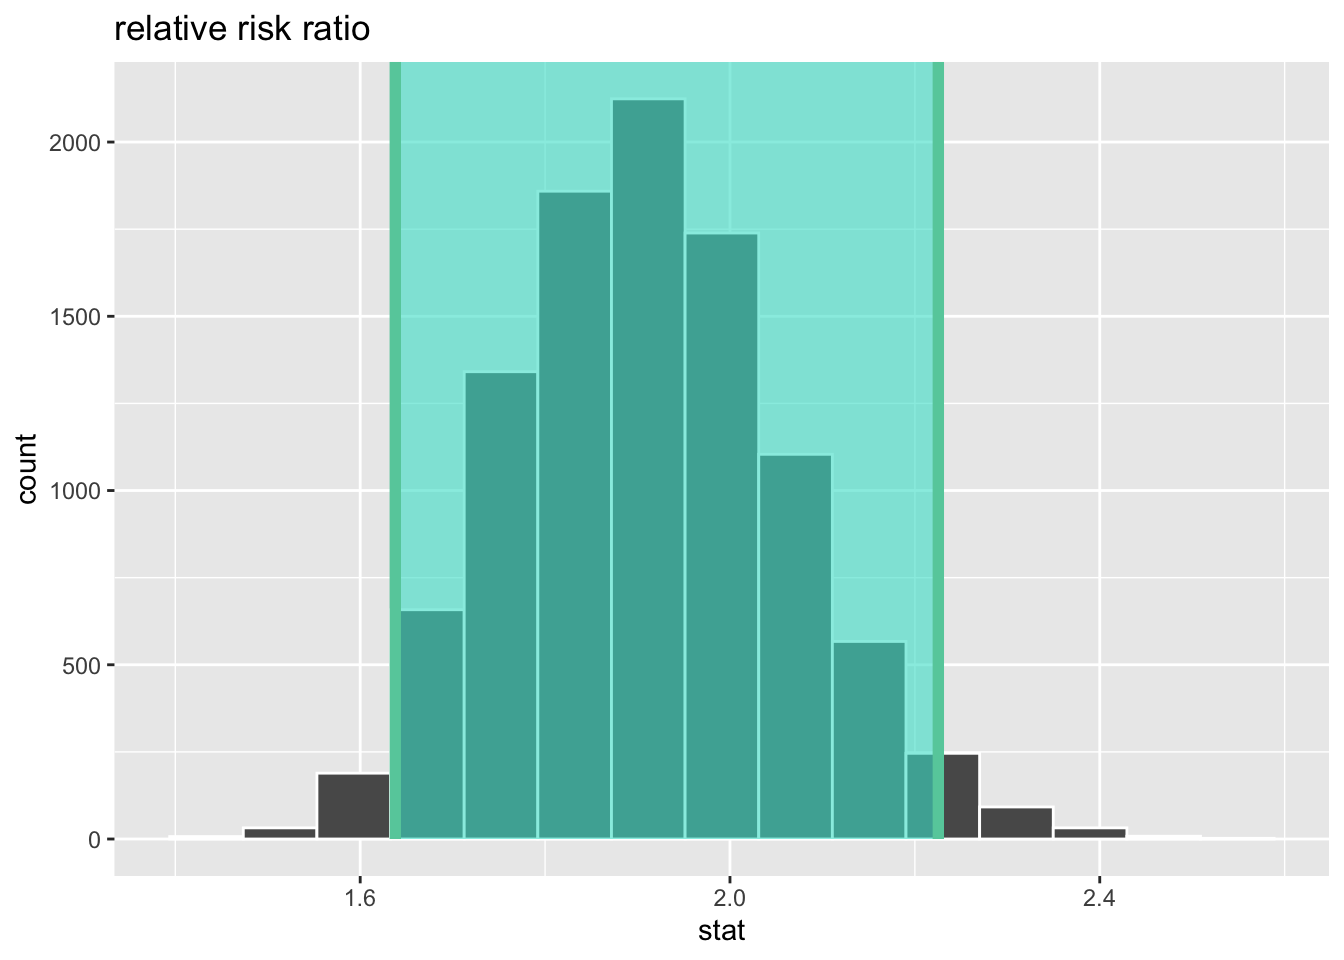
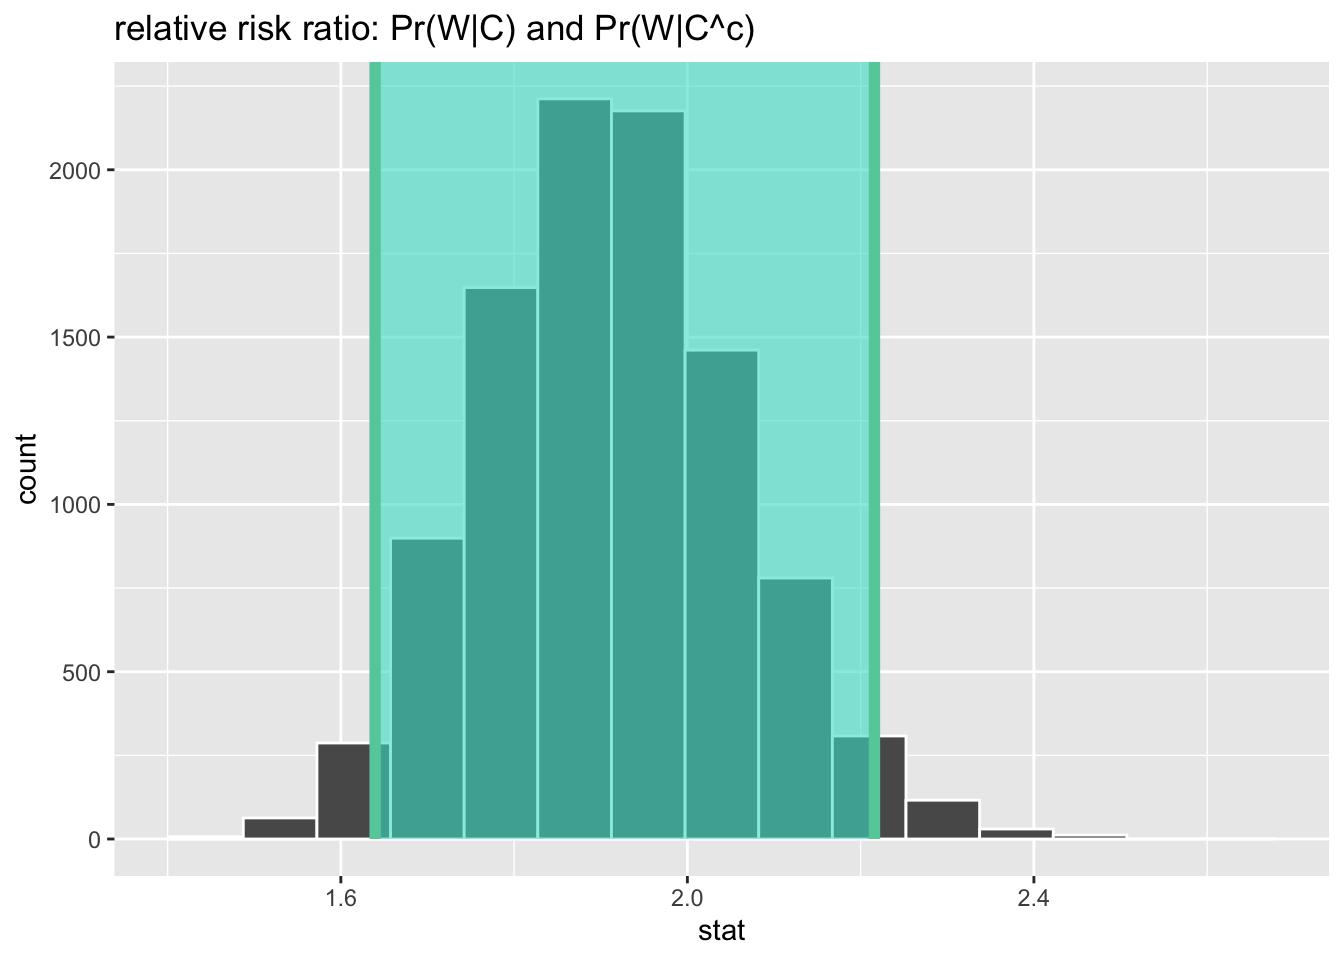
Updated week 7 exercises

diff --git a/Week 7 Exercises/Exercise_07.html b/Week 7 Exercises/Exercise_07.html
@@ -220,7 +220,7 @@ pre > code.sourceCode > span > a:first-child::before { text-decoration: underlin
 </section>
 <section id="section-1" class="level2">
 <h2 class="anchored" data-anchor-id="section-1">7.1.2</h2>
-<p>Selecting new variables: marital status and whether or not respondent has children</p>
+<p>Selecting new variables: marital status (M) and whether or not respondent has kids (K)</p>
 <div class="cell">
 <div class="sourceCode cell-code" id="cb19"><pre class="sourceCode r code-with-copy"><code class="sourceCode r"><span id="cb19-1"><a href="#cb19-1" aria-hidden="true" tabindex="-1"></a>d2 <span class="ot">&lt;-</span> gss18 <span class="sc">|&gt;</span> </span>
 <span id="cb19-2"><a href="#cb19-2" aria-hidden="true" tabindex="-1"></a>  <span class="fu">select</span>(marital, childs) <span class="sc">|&gt;</span> </span>
@@ -243,7 +243,7 @@ pre > code.sourceCode > span > a:first-child::before { text-decoration: underlin
 </div>
 </div>
 <ol type="1">
-<li>Probability that someone is married</li>
+<li>Probability that someone is married: Pr(M)</li>
 </ol>
 <div class="cell">
 <div class="sourceCode cell-code" id="cb22"><pre class="sourceCode r code-with-copy"><code class="sourceCode r"><span id="cb22-1"><a href="#cb22-1" aria-hidden="true" tabindex="-1"></a><span class="fu">tabyl</span>(d2, mar_status_chr)</span></code><button title="Copy to Clipboard" class="code-copy-button"><i class="bi"></i></button></pre></div>
@@ -260,7 +260,7 @@ pre > code.sourceCode > span > a:first-child::before { text-decoration: underlin
 </div>
 <p>Pr(M) = <strong>42.51%</strong></p>
 <ol start="2" type="1">
-<li>Probability that someone is NOT married</li>
+<li>Probability that someone is NOT married: Pr(M<sup>c</sup>)</li>
 </ol>
 <div class="cell">
 <div class="sourceCode cell-code" id="cb26"><pre class="sourceCode r code-with-copy"><code class="sourceCode r"><span id="cb26-1"><a href="#cb26-1" aria-hidden="true" tabindex="-1"></a><span class="dv">100</span><span class="sc">-</span>prob_married</span></code><button title="Copy to Clipboard" class="code-copy-button"><i class="bi"></i></button></pre></div>
@@ -270,7 +270,7 @@ pre > code.sourceCode > span > a:first-child::before { text-decoration: underlin
 </div>
 <p>Pr(M<sup>c</sup>) = <strong>57.49%</strong></p>
 <ol start="3" type="1">
-<li>Probability that someone has children given that they are married</li>
+<li>Probability that someone has children given that they are married: Pr(K | M)</li>
 </ol>
 <div class="cell">
 <div class="sourceCode cell-code" id="cb28"><pre class="sourceCode r code-with-copy"><code class="sourceCode r"><span id="cb28-1"><a href="#cb28-1" aria-hidden="true" tabindex="-1"></a><span class="fu">tabyl</span>(d2, mar_status_chr, has_children_chr) <span class="sc">|&gt;</span> </span>
@@ -282,9 +282,9 @@ pre > code.sourceCode > span > a:first-child::before { text-decoration: underlin
     Not Married   61.54%  38.46%</code></pre>
 </div>
 </div>
-<p>Pr(C | M) = <strong>85.44%</strong></p>
+<p>Pr(K | M) = <strong>85.44%</strong></p>
 <ol start="4" type="1">
-<li>Probability that someone is married given that they have kids</li>
+<li>Probability that someone is married given that they have kids: Pr(M | K)</li>
 </ol>
 <div class="cell">
 <div class="sourceCode cell-code" id="cb30"><pre class="sourceCode r code-with-copy"><code class="sourceCode r"><span id="cb30-1"><a href="#cb30-1" aria-hidden="true" tabindex="-1"></a><span class="fu">tabyl</span>(d2, mar_status_chr, has_children_chr) <span class="sc">|&gt;</span> </span>
@@ -296,9 +296,9 @@ pre > code.sourceCode > span > a:first-child::before { text-decoration: underlin
     Not Married   49.35%  78.13%</code></pre>
 </div>
 </div>
-<p>Pr(M | C) = <strong>50.65%</strong></p>
+<p>Pr(M | K) = <strong>50.65%</strong></p>
 <ol start="5" type="1">
-<li>Probability that someone has kids given that they are NOT married</li>
+<li>Probability that someone has kids given that they are NOT married: Pr(K | M<sup>c</sup>)</li>
 </ol>
 <div class="cell">
 <div class="sourceCode cell-code" id="cb32"><pre class="sourceCode r code-with-copy"><code class="sourceCode r"><span id="cb32-1"><a href="#cb32-1" aria-hidden="true" tabindex="-1"></a><span class="fu">tabyl</span>(d2, mar_status_chr, has_children_chr) <span class="sc">|&gt;</span> </span>
@@ -310,9 +310,9 @@ pre > code.sourceCode > span > a:first-child::before { text-decoration: underlin
     Not Married   61.54%  38.46%</code></pre>
 </div>
 </div>
-<p>Pr(C | M<sup>c</sup>) = <strong>61.54%</strong></p>
+<p>Pr(K | M<sup>c</sup>) = <strong>61.54%</strong></p>
 <ol start="6" type="1">
-<li>Probability that someone is married and has kids</li>
+<li>Probability that someone is married and has kids: Pr(M and K)</li>
 </ol>
 <div class="cell">
 <div class="sourceCode cell-code" id="cb34"><pre class="sourceCode r code-with-copy"><code class="sourceCode r"><span id="cb34-1"><a href="#cb34-1" aria-hidden="true" tabindex="-1"></a><span class="fu">tabyl</span>(d2, mar_status_chr, has_children_chr) <span class="sc">|&gt;</span> </span>
@@ -324,9 +324,9 @@ pre > code.sourceCode > span > a:first-child::before { text-decoration: underlin
     Not Married   35.38%  22.11%</code></pre>
 </div>
 </div>
-<p>Pr(M and C) = <strong>36.32%</strong></p>
+<p>Pr(M and K) = <strong>36.32%</strong></p>
 <ol start="7" type="1">
-<li>Probability that someone is NOT married and does NOT have kids</li>
+<li>Probability that someone is NOT married and does NOT have kids: Pr(M<sup>c</sup> and K<sup>c</sup>)</li>
 </ol>
 <div class="cell">
 <div class="sourceCode cell-code" id="cb36"><pre class="sourceCode r code-with-copy"><code class="sourceCode r"><span id="cb36-1"><a href="#cb36-1" aria-hidden="true" tabindex="-1"></a><span class="fu">tabyl</span>(d2, mar_status_chr, has_children_chr) <span class="sc">|&gt;</span> </span>
@@ -338,9 +338,9 @@ pre > code.sourceCode > span > a:first-child::before { text-decoration: underlin
     Not Married   61.54%  38.46%</code></pre>
 </div>
 </div>
-<p>Pr(M<sup>c</sup> and C<sup>c</sup>) = <strong>38.46%</strong></p>
+<p>Pr(M<sup>c</sup> and K<sup>c</sup>) = <strong>38.46%</strong></p>
 <ol start="8" type="1">
-<li>If M and C are independent, what would be the joint probability of M and C?</li>
+<li>If M and K are independent, what would be the joint probability of M and K?</li>
 </ol>
 <div class="cell">
 <div class="sourceCode cell-code" id="cb38"><pre class="sourceCode r code-with-copy"><code class="sourceCode r"><span id="cb38-1"><a href="#cb38-1" aria-hidden="true" tabindex="-1"></a>chisq<span class="ot">&lt;-</span><span class="fu">tabyl</span>(d2, mar_status_chr, has_children_chr) <span class="sc">|&gt;</span> </span>
@@ -353,7 +353,7 @@ pre > code.sourceCode > span > a:first-child::before { text-decoration: underlin
     Not Married 0.4122231 0.1626809</code></pre>
 </div>
 </div>
-<p>The joint probability of M and C would be <strong>30.48%</strong></p>
+<p>The joint probability of M and K would be <strong>30.48%</strong></p>
 </section>
 <section id="section-2" class="level2">
 <h2 class="anchored" data-anchor-id="section-2">7.2.1</h2>
@@ -426,7 +426,7 @@ pre > code.sourceCode > span > a:first-child::before { text-decoration: underlin
 <section id="section-3" class="level2">
 <h2 class="anchored" data-anchor-id="section-3">7.2.2</h2>
 <ol type="1">
-<li>Draw a sampling distribution for the relative risk ratio.</li>
+<li>Draw a sampling distribution for the relative risk ratio between Pr(W|C) and Pr(W|C<sup>c</sup>).</li>
 </ol>
 <div class="cell">
 <div class="sourceCode cell-code" id="cb52"><pre class="sourceCode r code-with-copy"><code class="sourceCode r"><span id="cb52-1"><a href="#cb52-1" aria-hidden="true" tabindex="-1"></a>d <span class="ot">&lt;-</span> gss18 <span class="sc">|&gt;</span> </span>
@@ -454,13 +454,13 @@ pre > code.sourceCode > span > a:first-child::before { text-decoration: underlin
 <div class="sourceCode cell-code" id="cb54"><pre class="sourceCode r code-with-copy"><code class="sourceCode r"><span id="cb54-1"><a href="#cb54-1" aria-hidden="true" tabindex="-1"></a>boot_rr <span class="sc">|&gt;</span> </span>
 <span id="cb54-2"><a href="#cb54-2" aria-hidden="true" tabindex="-1"></a>  <span class="fu">visualize</span>() <span class="sc">+</span></span>
 <span id="cb54-3"><a href="#cb54-3" aria-hidden="true" tabindex="-1"></a>  <span class="fu">shade_ci</span>(ci_rr)<span class="sc">+</span></span>
-<span id="cb54-4"><a href="#cb54-4" aria-hidden="true" tabindex="-1"></a>  <span class="fu">ggtitle</span>(<span class="st">"relative risk ratio"</span>)</span></code><button title="Copy to Clipboard" class="code-copy-button"><i class="bi"></i></button></pre></div>
+<span id="cb54-4"><a href="#cb54-4" aria-hidden="true" tabindex="-1"></a>  <span class="fu">ggtitle</span>(<span class="st">"relative risk ratio: Pr(W|C) and Pr(W|C^c)"</span>)</span></code><button title="Copy to Clipboard" class="code-copy-button"><i class="bi"></i></button></pre></div>
 <div class="cell-output-display">
 <p><img src="Exercise_07_files/figure-html/unnamed-chunk-24-1.png" class="img-fluid" width="672"></p>
 </div>
 </div>
 <ol start="2" type="1">
-<li>Draw a sampling distribution for the odds ratio</li>
+<li>Draw a sampling distribution for the odds ratio between Pr(W|C) and Pr(W|C<sup>c</sup>).</li>
 </ol>
 <div class="cell">
 <div class="sourceCode cell-code" id="cb55"><pre class="sourceCode r code-with-copy"><code class="sourceCode r"><span id="cb55-1"><a href="#cb55-1" aria-hidden="true" tabindex="-1"></a>boot_or <span class="ot">&lt;-</span> d <span class="sc">|&gt;</span> </span>
@@ -477,9 +477,122 @@ pre > code.sourceCode > span > a:first-child::before { text-decoration: underlin
 <div class="sourceCode cell-code" id="cb57"><pre class="sourceCode r code-with-copy"><code class="sourceCode r"><span id="cb57-1"><a href="#cb57-1" aria-hidden="true" tabindex="-1"></a>boot_or <span class="sc">|&gt;</span> </span>
 <span id="cb57-2"><a href="#cb57-2" aria-hidden="true" tabindex="-1"></a>  <span class="fu">visualize</span>() <span class="sc">+</span></span>
 <span id="cb57-3"><a href="#cb57-3" aria-hidden="true" tabindex="-1"></a>  <span class="fu">shade_ci</span>(ci_or)<span class="sc">+</span></span>
-<span id="cb57-4"><a href="#cb57-4" aria-hidden="true" tabindex="-1"></a>  <span class="fu">ggtitle</span>(<span class="st">"odds ratio"</span>)</span></code><button title="Copy to Clipboard" class="code-copy-button"><i class="bi"></i></button></pre></div>
+<span id="cb57-4"><a href="#cb57-4" aria-hidden="true" tabindex="-1"></a>  <span class="fu">ggtitle</span>(<span class="st">"odds ratio: Pr(W|C) and Pr(W|C^c)"</span>)</span></code><button title="Copy to Clipboard" class="code-copy-button"><i class="bi"></i></button></pre></div>
 <div class="cell-output-display">
 <p><img src="Exercise_07_files/figure-html/unnamed-chunk-25-1.png" class="img-fluid" width="672"></p>
+</div>
+</div>
+</section>
+<section id="section-4" class="level2">
+<h2 class="anchored" data-anchor-id="section-4">7.2.3</h2>
+<p>Compare Pr(M|K) and Pr(M|K<sup>c</sup>) using the following summary statistics:</p>
+<ol type="1">
+<li>Difference in Probabilities</li>
+</ol>
+<div class="cell">
+<div class="sourceCode cell-code" id="cb58"><pre class="sourceCode r code-with-copy"><code class="sourceCode r"><span id="cb58-1"><a href="#cb58-1" aria-hidden="true" tabindex="-1"></a><span class="fu">tabyl</span>(d2, mar_status_chr, has_children_chr) <span class="sc">|&gt;</span></span>
+<span id="cb58-2"><a href="#cb58-2" aria-hidden="true" tabindex="-1"></a>  <span class="fu">adorn_percentages</span>(<span class="at">denominator =</span> <span class="st">"col"</span>) <span class="sc">|&gt;</span></span>
+<span id="cb58-3"><a href="#cb58-3" aria-hidden="true" tabindex="-1"></a>  <span class="fu">adorn_pct_formatting</span>(<span class="at">digits =</span> <span class="dv">2</span>)</span></code><button title="Copy to Clipboard" class="code-copy-button"><i class="bi"></i></button></pre></div>
+<div class="cell-output cell-output-stdout">
+<pre><code> mar_status_chr Has kids No kids
+        Married   50.65%  21.87%
+    Not Married   49.35%  78.13%</code></pre>
+</div>
+<div class="sourceCode cell-code" id="cb60"><pre class="sourceCode r code-with-copy"><code class="sourceCode r"><span id="cb60-1"><a href="#cb60-1" aria-hidden="true" tabindex="-1"></a>prob_married_given_kids<span class="ot">&lt;-</span>.<span class="dv">5065</span></span>
+<span id="cb60-2"><a href="#cb60-2" aria-hidden="true" tabindex="-1"></a>prob_married_given_no_kids<span class="ot">&lt;-</span>.<span class="dv">2187</span></span>
+<span id="cb60-3"><a href="#cb60-3" aria-hidden="true" tabindex="-1"></a></span>
+<span id="cb60-4"><a href="#cb60-4" aria-hidden="true" tabindex="-1"></a>prob_married_given_kids<span class="sc">-</span>prob_married_given_no_kids</span></code><button title="Copy to Clipboard" class="code-copy-button"><i class="bi"></i></button></pre></div>
+<div class="cell-output cell-output-stdout">
+<pre><code>[1] 0.2878</code></pre>
+</div>
+</div>
+<p>There is a <strong>28.78% point difference in probabilities</strong> between the two groups: probability of being married among those who have kids and probability of being married among those who do NOT have kids.</p>
+<ol start="2" type="1">
+<li>Relative risk ratio</li>
+</ol>
+<div class="cell">
+<div class="sourceCode cell-code" id="cb62"><pre class="sourceCode r code-with-copy"><code class="sourceCode r"><span id="cb62-1"><a href="#cb62-1" aria-hidden="true" tabindex="-1"></a>prob_married_given_kids<span class="sc">/</span>prob_married_given_no_kids</span></code><button title="Copy to Clipboard" class="code-copy-button"><i class="bi"></i></button></pre></div>
+<div class="cell-output cell-output-stdout">
+<pre><code>[1] 2.315958</code></pre>
+</div>
+</div>
+<p>People who have kids have a probability of being married about <strong>2.32X greater</strong> than those who do not have kids.</p>
+<ol start="3" type="1">
+<li>Odds ratio</li>
+</ol>
+<div class="cell">
+<div class="sourceCode cell-code" id="cb64"><pre class="sourceCode r code-with-copy"><code class="sourceCode r"><span id="cb64-1"><a href="#cb64-1" aria-hidden="true" tabindex="-1"></a><span class="fu">tabyl</span>(d2, mar_status_chr, has_children_chr)</span></code><button title="Copy to Clipboard" class="code-copy-button"><i class="bi"></i></button></pre></div>
+<div class="cell-output cell-output-stdout">
+<pre><code> mar_status_chr Has kids No kids
+        Married      851     145
+    Not Married      829     518</code></pre>
+</div>
+<div class="sourceCode cell-code" id="cb66"><pre class="sourceCode r code-with-copy"><code class="sourceCode r"><span id="cb66-1"><a href="#cb66-1" aria-hidden="true" tabindex="-1"></a><span class="co"># odds that person who has kids is married</span></span>
+<span id="cb66-2"><a href="#cb66-2" aria-hidden="true" tabindex="-1"></a>odds_married_yes_kids<span class="ot">&lt;-</span><span class="dv">851</span><span class="sc">/</span><span class="dv">829</span></span>
+<span id="cb66-3"><a href="#cb66-3" aria-hidden="true" tabindex="-1"></a></span>
+<span id="cb66-4"><a href="#cb66-4" aria-hidden="true" tabindex="-1"></a><span class="co"># odds that a person who does NOT have kids is married</span></span>
+<span id="cb66-5"><a href="#cb66-5" aria-hidden="true" tabindex="-1"></a>odds_married_no_kids<span class="ot">&lt;-</span><span class="dv">145</span><span class="sc">/</span><span class="dv">518</span></span>
+<span id="cb66-6"><a href="#cb66-6" aria-hidden="true" tabindex="-1"></a></span>
+<span id="cb66-7"><a href="#cb66-7" aria-hidden="true" tabindex="-1"></a>odds_ratio_married_kids<span class="ot">&lt;-</span>odds_married_yes_kids<span class="sc">/</span>odds_married_no_kids</span>
+<span id="cb66-8"><a href="#cb66-8" aria-hidden="true" tabindex="-1"></a>odds_ratio_married_kids</span></code><button title="Copy to Clipboard" class="code-copy-button"><i class="bi"></i></button></pre></div>
+<div class="cell-output cell-output-stdout">
+<pre><code>[1] 3.667219</code></pre>
+</div>
+</div>
+<p>Respondents with kids’ odds of being married is about <strong>3.67X greater</strong> than those who do not have kids.</p>
+<ol start="4" type="1">
+<li>Log odds ratio</li>
+</ol>
+<div class="cell">
+<div class="sourceCode cell-code" id="cb68"><pre class="sourceCode r code-with-copy"><code class="sourceCode r"><span id="cb68-1"><a href="#cb68-1" aria-hidden="true" tabindex="-1"></a><span class="fu">log</span>(odds_ratio_married_kids)</span></code><button title="Copy to Clipboard" class="code-copy-button"><i class="bi"></i></button></pre></div>
+<div class="cell-output cell-output-stdout">
+<pre><code>[1] 1.299433</code></pre>
+</div>
+</div>
+<p>When compared to respondents without kids, the log-odds ratio of respondents with kids being married is <strong>about 1.30.</strong></p>
+</section>
+<section id="section-5" class="level2">
+<h2 class="anchored" data-anchor-id="section-5">7.2.4</h2>
+<ol type="1">
+<li>Draw a sampling distribution for the relative risk ratio between Pr(M|K) and Pr(M|K<sup>c</sup>).</li>
+</ol>
+<div class="cell">
+<div class="sourceCode cell-code" id="cb70"><pre class="sourceCode r code-with-copy"><code class="sourceCode r"><span id="cb70-1"><a href="#cb70-1" aria-hidden="true" tabindex="-1"></a>boot_rr_d2 <span class="ot">&lt;-</span> d2 <span class="sc">|&gt;</span> </span>
+<span id="cb70-2"><a href="#cb70-2" aria-hidden="true" tabindex="-1"></a>  <span class="fu">specify</span>(mar_status_chr <span class="sc">~</span> has_children_chr, <span class="at">success=</span><span class="st">"Married"</span>) <span class="sc">|&gt;</span> </span>
+<span id="cb70-3"><a href="#cb70-3" aria-hidden="true" tabindex="-1"></a>  <span class="fu">generate</span>(<span class="at">reps =</span> <span class="fl">1e4</span>, <span class="at">type =</span> <span class="st">"bootstrap"</span>) <span class="sc">|&gt;</span> </span>
+<span id="cb70-4"><a href="#cb70-4" aria-hidden="true" tabindex="-1"></a>  <span class="fu">calculate</span>(<span class="at">stat =</span> <span class="st">"ratio of props"</span>, <span class="at">order =</span> <span class="fu">c</span>(<span class="st">"Has kids"</span>, <span class="st">"No kids"</span>))</span>
+<span id="cb70-5"><a href="#cb70-5" aria-hidden="true" tabindex="-1"></a></span>
+<span id="cb70-6"><a href="#cb70-6" aria-hidden="true" tabindex="-1"></a>ci_rr_d2 <span class="ot">&lt;-</span> <span class="fu">get_confidence_interval</span>(boot_rr_d2)</span></code><button title="Copy to Clipboard" class="code-copy-button"><i class="bi"></i></button></pre></div>
+<div class="cell-output cell-output-stderr">
+<pre><code>Using `level = 0.95` to compute confidence interval.</code></pre>
+</div>
+<div class="sourceCode cell-code" id="cb72"><pre class="sourceCode r code-with-copy"><code class="sourceCode r"><span id="cb72-1"><a href="#cb72-1" aria-hidden="true" tabindex="-1"></a>boot_rr_d2 <span class="sc">|&gt;</span> </span>
+<span id="cb72-2"><a href="#cb72-2" aria-hidden="true" tabindex="-1"></a>  <span class="fu">visualize</span>() <span class="sc">+</span></span>
+<span id="cb72-3"><a href="#cb72-3" aria-hidden="true" tabindex="-1"></a>  <span class="fu">shade_ci</span>(ci_rr_d2)<span class="sc">+</span></span>
+<span id="cb72-4"><a href="#cb72-4" aria-hidden="true" tabindex="-1"></a>  <span class="fu">ggtitle</span>(<span class="st">"relative risk ratio: Pr(M|K) and Pr(M|K^c)"</span>)</span></code><button title="Copy to Clipboard" class="code-copy-button"><i class="bi"></i></button></pre></div>
+<div class="cell-output-display">
+<p><img src="Exercise_07_files/figure-html/unnamed-chunk-30-1.png" class="img-fluid" width="672"></p>
+</div>
+</div>
+<ol start="2" type="1">
+<li>Draw a sampling distribution for the odds ratio between Pr(M|K) and Pr(M|K<sup>c</sup>).</li>
+</ol>
+<div class="cell">
+<div class="sourceCode cell-code" id="cb73"><pre class="sourceCode r code-with-copy"><code class="sourceCode r"><span id="cb73-1"><a href="#cb73-1" aria-hidden="true" tabindex="-1"></a>boot_or_d2 <span class="ot">&lt;-</span> d2 <span class="sc">|&gt;</span> </span>
+<span id="cb73-2"><a href="#cb73-2" aria-hidden="true" tabindex="-1"></a>  <span class="fu">specify</span>(mar_status_chr <span class="sc">~</span> has_children_chr, <span class="at">success=</span><span class="st">"Married"</span>) <span class="sc">|&gt;</span> </span>
+<span id="cb73-3"><a href="#cb73-3" aria-hidden="true" tabindex="-1"></a>  <span class="fu">generate</span>(<span class="at">reps =</span> <span class="fl">1e4</span>, <span class="at">type =</span> <span class="st">"bootstrap"</span>) <span class="sc">|&gt;</span> </span>
+<span id="cb73-4"><a href="#cb73-4" aria-hidden="true" tabindex="-1"></a>  <span class="fu">calculate</span>(<span class="at">stat =</span> <span class="st">"odds ratio"</span>, <span class="at">order =</span> <span class="fu">c</span>(<span class="st">"Has kids"</span>, <span class="st">"No kids"</span>))</span>
+<span id="cb73-5"><a href="#cb73-5" aria-hidden="true" tabindex="-1"></a></span>
+<span id="cb73-6"><a href="#cb73-6" aria-hidden="true" tabindex="-1"></a>ci_or_d2 <span class="ot">&lt;-</span> <span class="fu">get_confidence_interval</span>(boot_or_d2)</span></code><button title="Copy to Clipboard" class="code-copy-button"><i class="bi"></i></button></pre></div>
+<div class="cell-output cell-output-stderr">
+<pre><code>Using `level = 0.95` to compute confidence interval.</code></pre>
+</div>
+<div class="sourceCode cell-code" id="cb75"><pre class="sourceCode r code-with-copy"><code class="sourceCode r"><span id="cb75-1"><a href="#cb75-1" aria-hidden="true" tabindex="-1"></a>boot_or_d2 <span class="sc">|&gt;</span> </span>
+<span id="cb75-2"><a href="#cb75-2" aria-hidden="true" tabindex="-1"></a>  <span class="fu">visualize</span>() <span class="sc">+</span></span>
+<span id="cb75-3"><a href="#cb75-3" aria-hidden="true" tabindex="-1"></a>  <span class="fu">shade_ci</span>(ci_or_d2)<span class="sc">+</span></span>
+<span id="cb75-4"><a href="#cb75-4" aria-hidden="true" tabindex="-1"></a>  <span class="fu">ggtitle</span>(<span class="st">"odds ratio: Pr(M|K) and Pr(M|K^c)"</span>)</span></code><button title="Copy to Clipboard" class="code-copy-button"><i class="bi"></i></button></pre></div>
+<div class="cell-output-display">
+<p><img src="Exercise_07_files/figure-html/unnamed-chunk-31-1.png" class="img-fluid" width="672"></p>
 </div>
 </div>
 </section>
